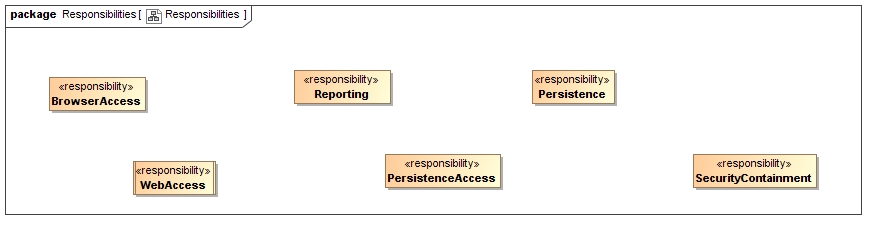
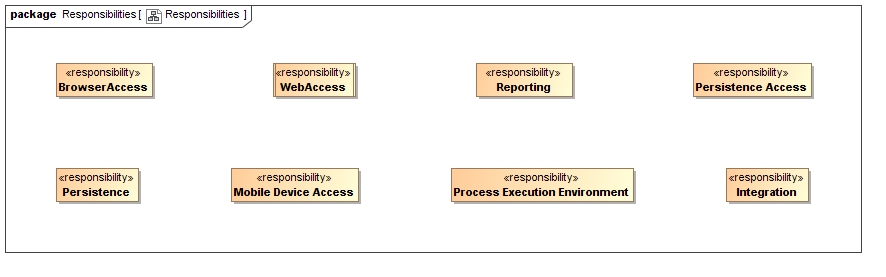
Updates Management system Responsibilities UML diagrams

diff --git a/Architectural Requirements/Management_System.tex b/Architectural Requirements/Management_System.tex
@@ -154,13 +154,20 @@ All use cases which are available to human users should also be accessible from 
 \subsubsection{Architectural Responsibilities}
 \begin{figure}[H]
 	\begin{center}
-	\includegraphics[scale=0.4]{../Diagrams and Charts/Architecture/Responsibilities.jpg}
+	\includegraphics[scale=0.5]{../Diagrams and Charts/Architecture/Responsibilities.jpg}
 	\caption{A high-level overview of the software architecture responsibilities}
 	\end{center}
-	\label{ref:architectureResponsibilities}
+	\label{fig:architectureResponsibilities}
 \end{figure}
+The figure \ref{fig:architectureResponsibilities} shows the allocation of architectural
+responsibilities to architectural components. The system requires an execution environment
+in which the business processes realizing these services can be executed in. Further more,
+system has two human channels, allowing human users to access the system via a  web interface
+or mobile device. Furthermore the system requires a persistence interface which abstracts the
+underlying persistence provider. The management system has one system channel, which is used
+to allow for integration with the watcher applications running on cluster nodes.
 
-\subsubsection{Architecture Constraints}
+
 
 \subsection{Architecture Design}
 \subsubsection{Tactics}
